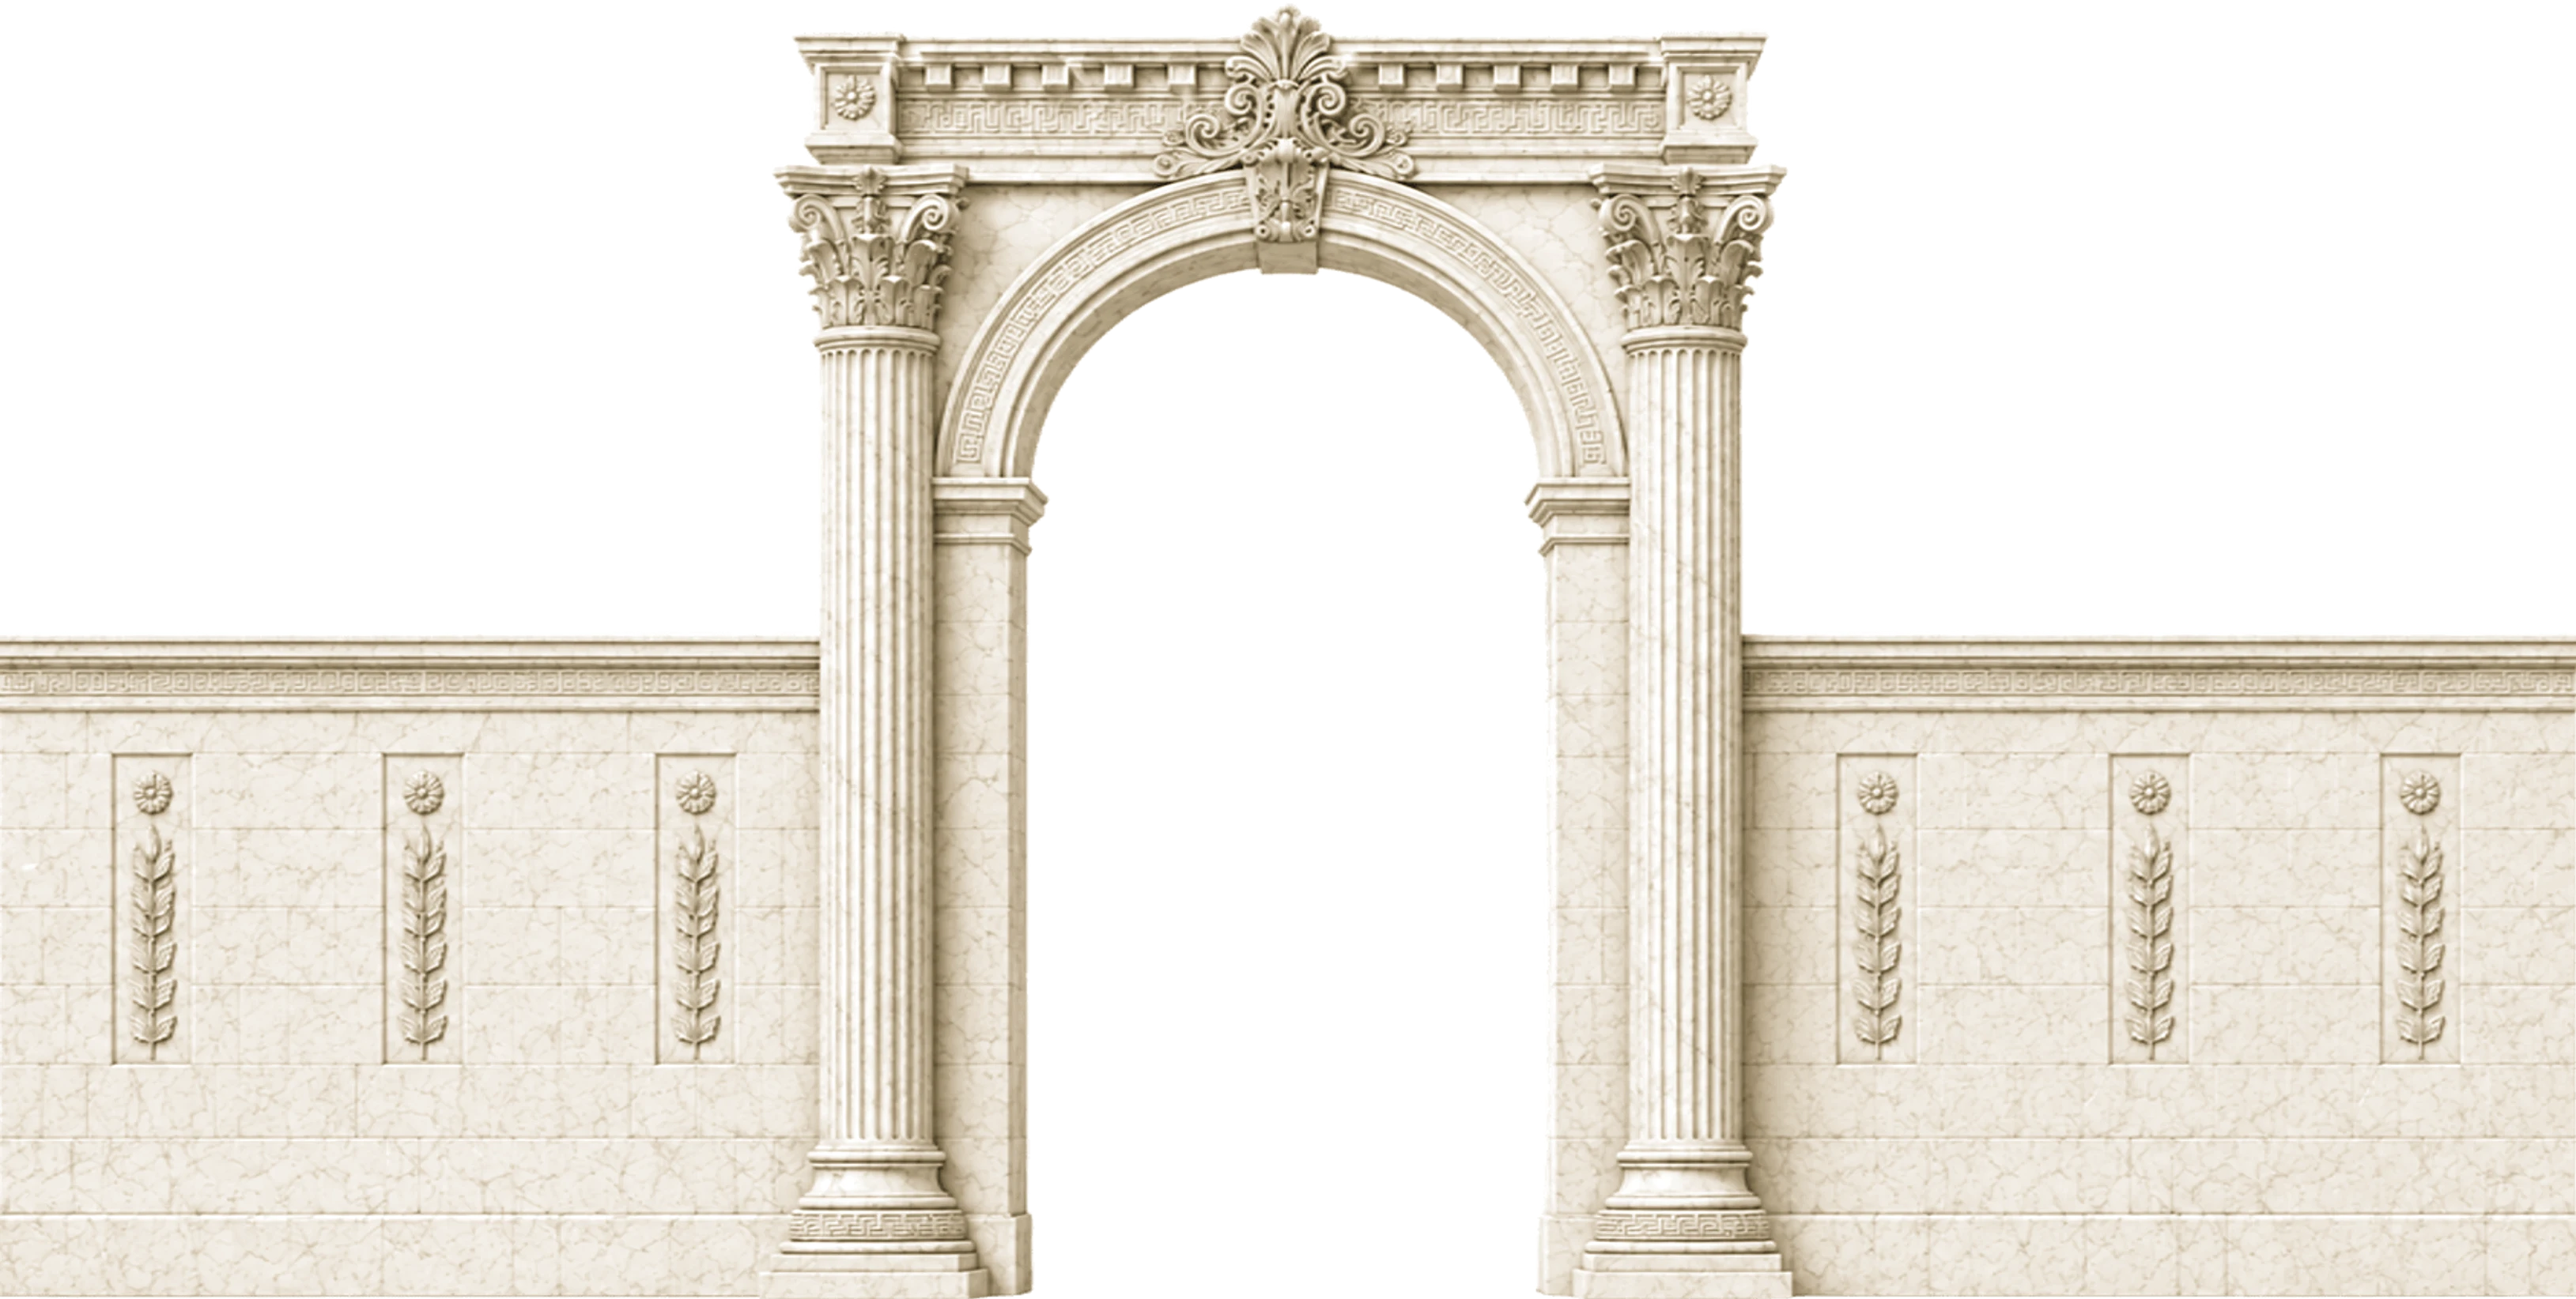
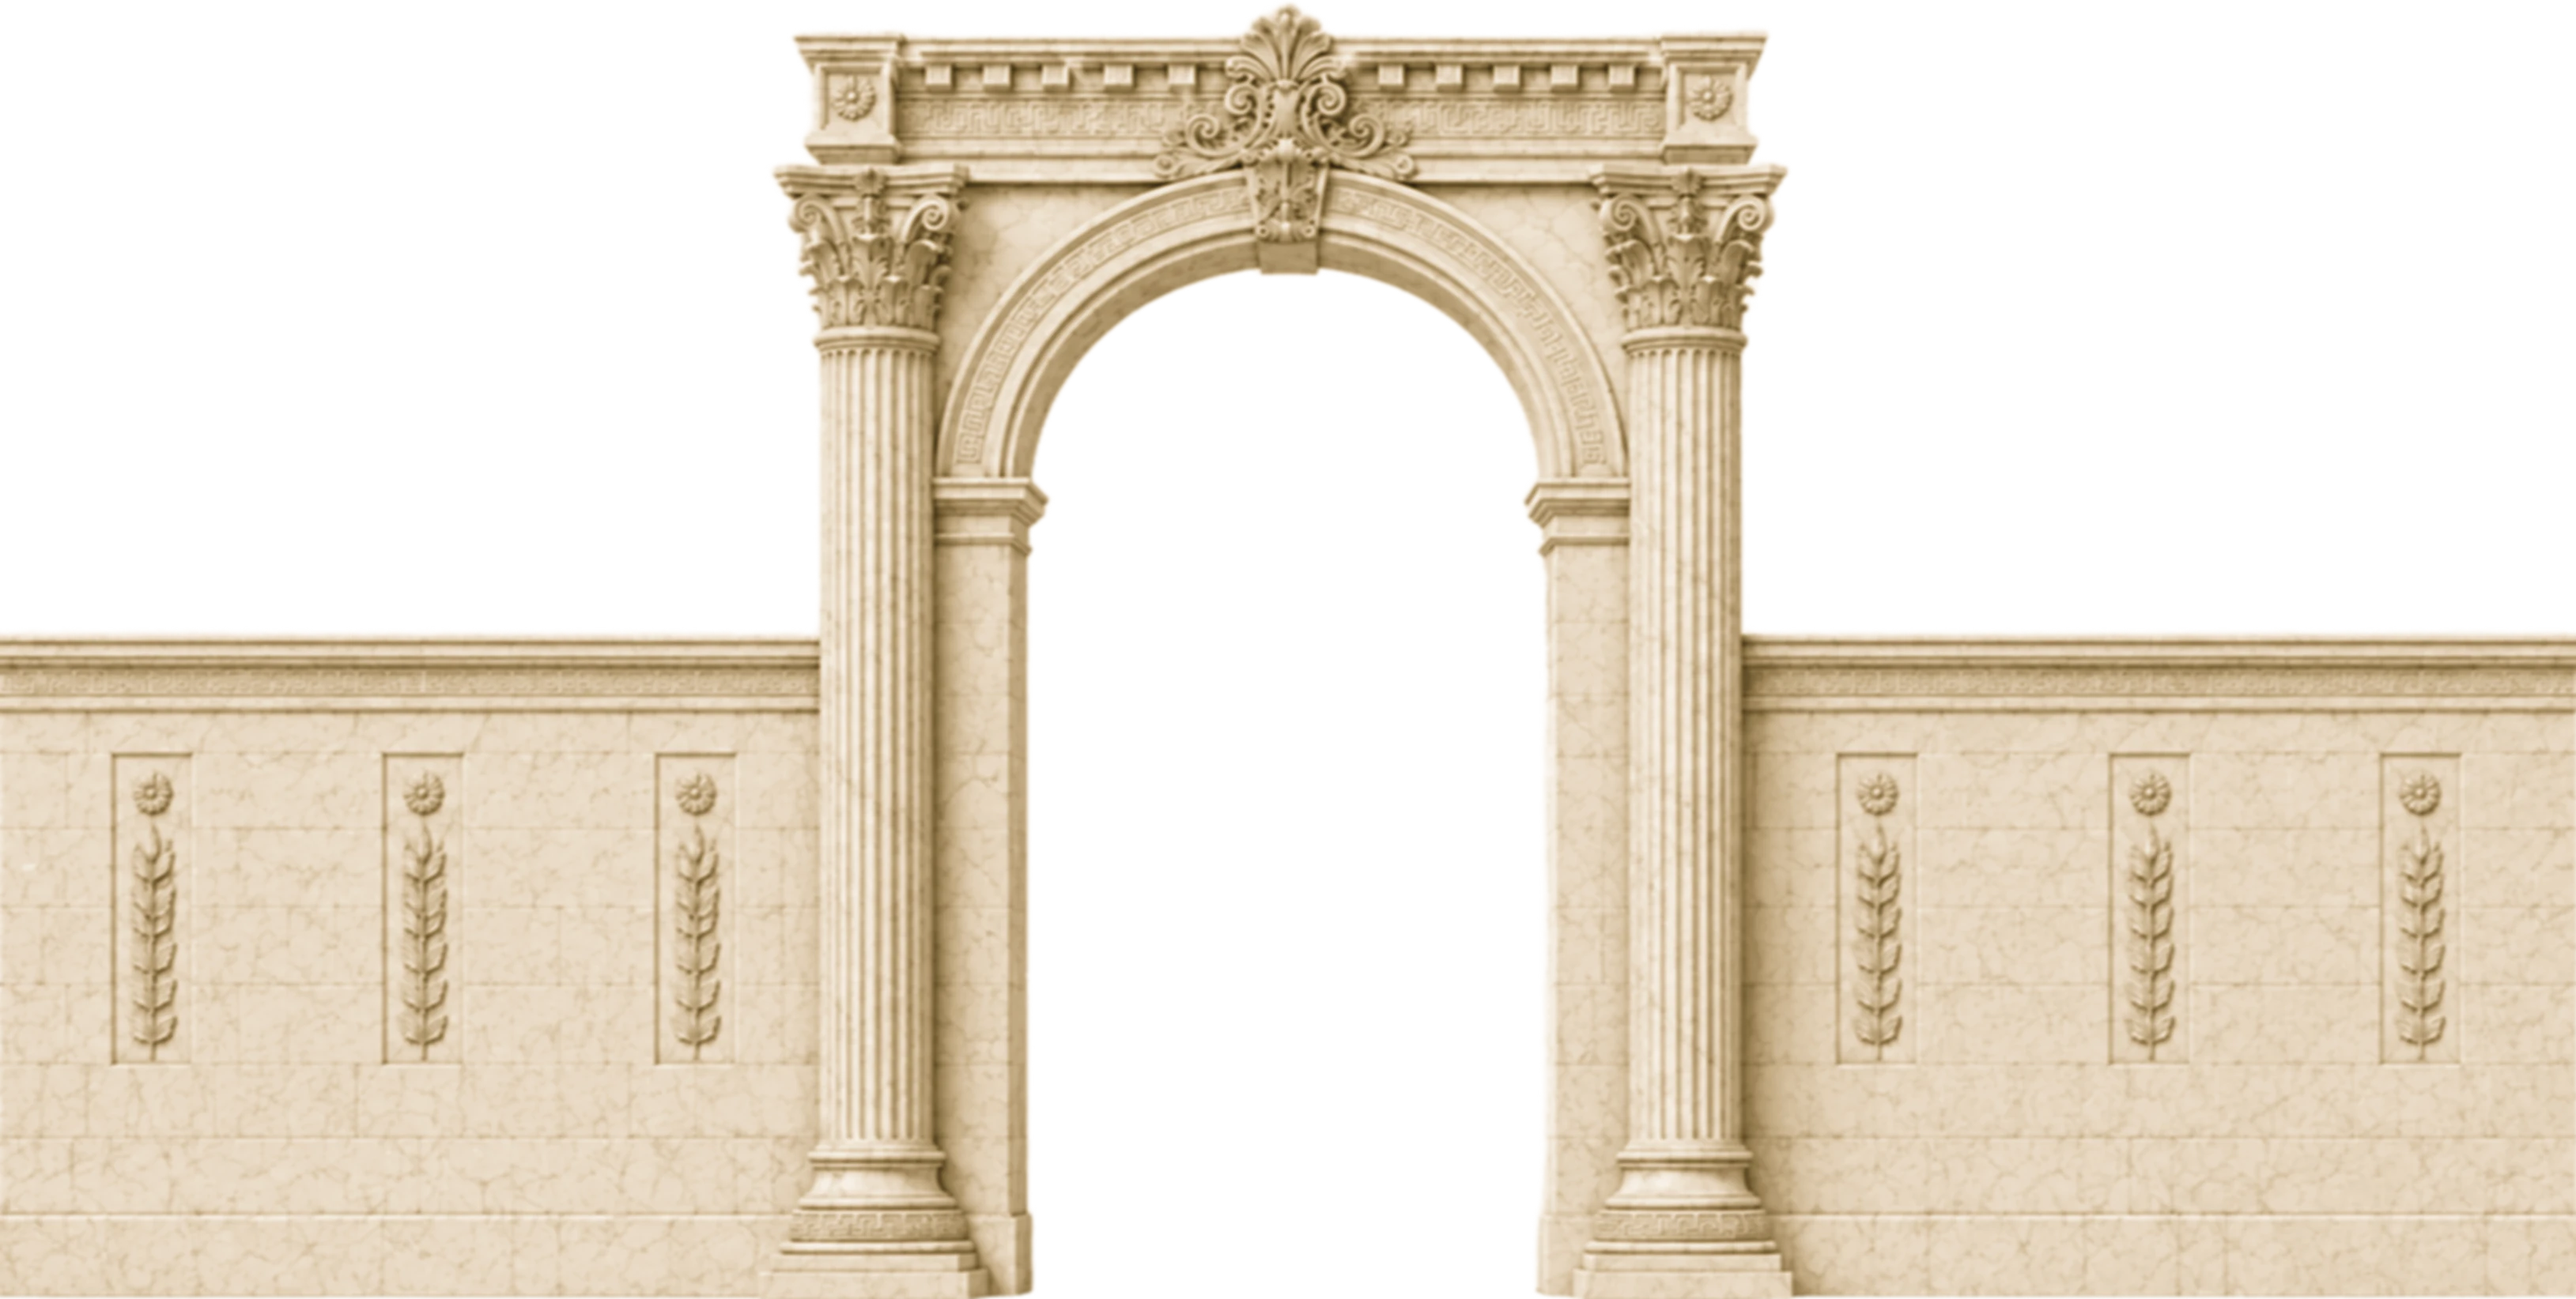
feat: 認証の門をHA（hero宮殿）の暖色ゴールド＆やわらか光に寄せる
白っぽすぎた前版を改善。門に金寄せ tint(207,178,130)＋saturation+10%＋
ごく軽い soft-focus(blur2.2) を焼き込み、HA の柔らかな陽光質感に。
背景スクリムを純アイボリー→暖色ゴールドへ、門 opacity 0.82→0.92 で実体化。

diff --git a/frontend/src/app/globals.css b/frontend/src/app/globals.css
@@ -1211,11 +1211,12 @@
   content: '';
   position: absolute;
   inset: 0;
+  /* HA の陽光感に寄せた暖色ゴールドのスクリム（純アイボリーより温かい） */
   background: linear-gradient(
     180deg,
-    rgba(255, 253, 247, 0.82) 0%,
-    rgba(255, 253, 247, 0.62) 45%,
-    rgba(255, 253, 247, 0.52) 100%
+    rgba(251, 242, 222, 0.8) 0%,
+    rgba(250, 240, 219, 0.6) 45%,
+    rgba(249, 238, 216, 0.5) 100%
   );
 }
 
@@ -1235,8 +1236,8 @@
      頂部をヘッダー直下(3.5rem)に固定し、伸びる分は上ではなく下（フッター側）へ。
      余った下部はフッター裏へ回り込み、下端 blur/フェードで溶ける */
   background: url('/auth-gate.webp') center 3.5rem / 100% auto no-repeat;
-  /* 背後の風景より前に立てるため、壁はやや実体化（風景は主に開口部から覗く） */
-  opacity: 0.82;
+  /* 背後の風景より前に立てるため、壁を実体化（白っぽさ回避＝ivory と混ざりすぎない） */
+  opacity: 0.92;
   /* 下端は blur を主役にするため opacity フェードは浅め（base が唐突に消えないように） */
   -webkit-mask-image: linear-gradient(to bottom, #000 0, #000 94%, transparent 100%);
   mask-image: linear-gradient(to bottom, #000 0, #000 94%, transparent 100%);
